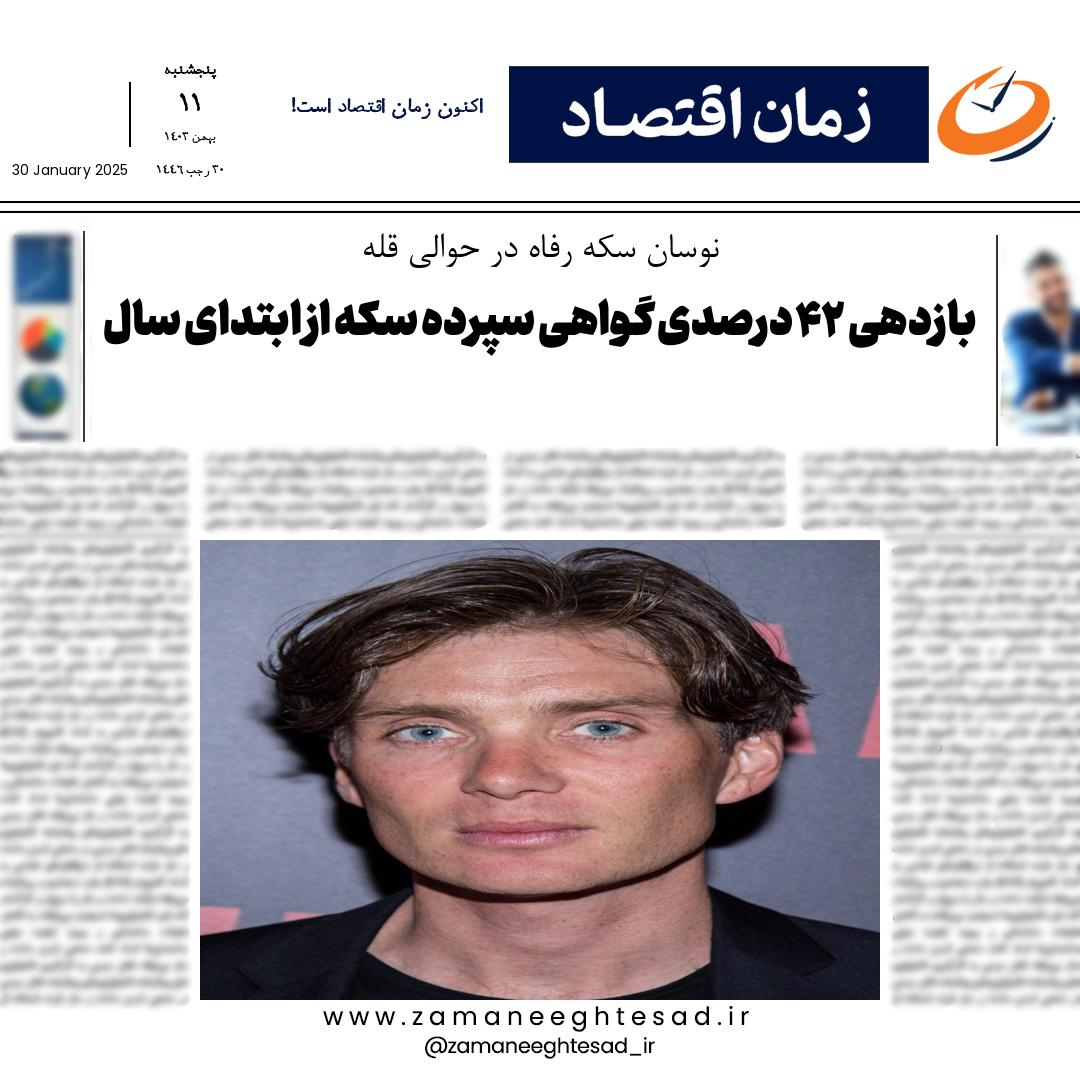
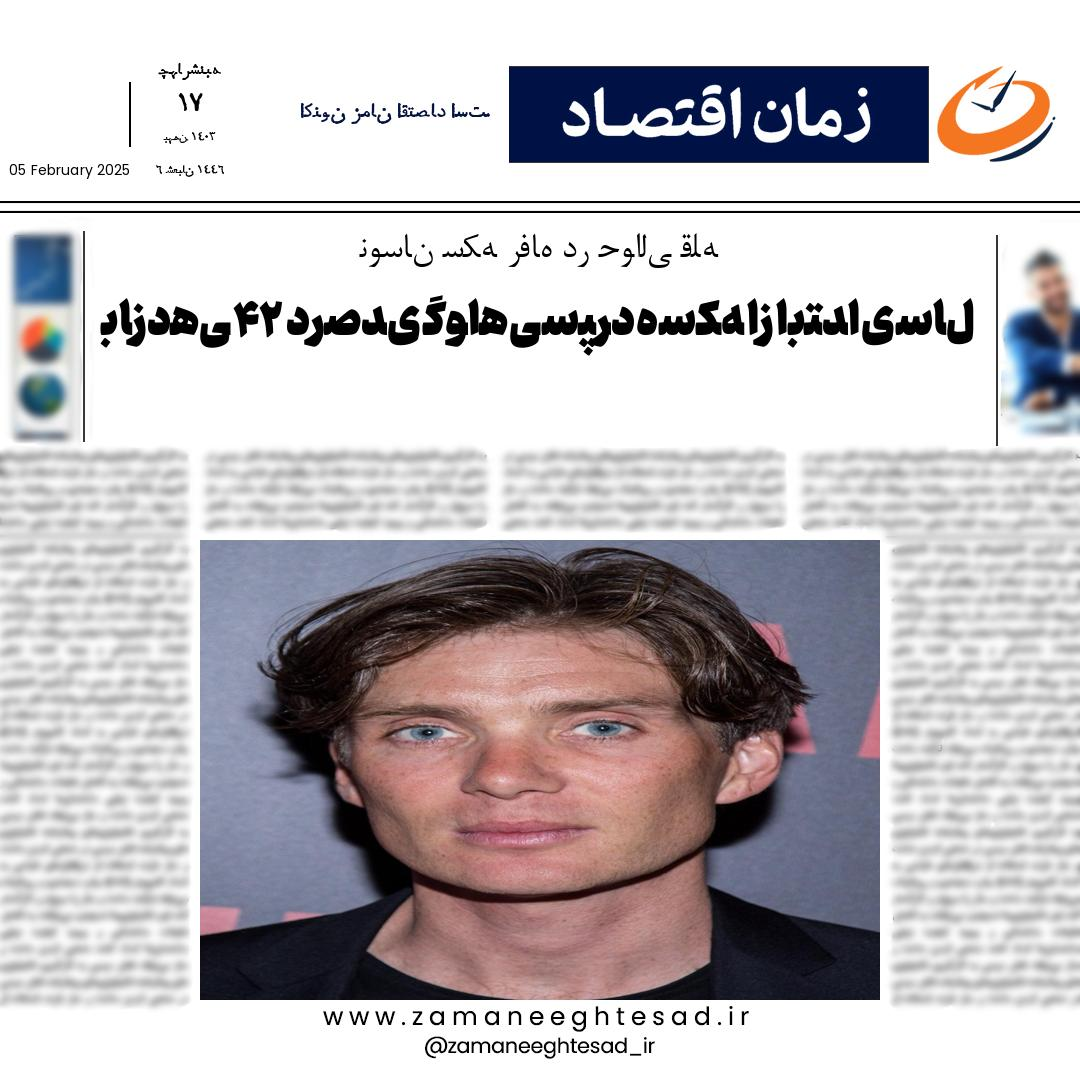
changed steps in the conversation

diff --git a/bot2.py b/bot2.py
@@ -22,6 +22,7 @@ AUTH, IMAGE, TITLE, CONTENT, SLOGAN, SLOGAN_CUSTOM, DATE, FUTURE_DAYS, EVENTS, F
 
 # دادههای کاربر
 data = {}  # Dictionary to store user-provided data during the conversation.
+data['slogan'] = "اکنون زمانِ اقتصاد است." # Default slogan
 
 # Timeout duration (in seconds)
 TIMEOUT = 300  # Define conversation timeout duration.
@@ -76,31 +77,32 @@ async def receive_image(update: Update, context: CallbackContext):
     photo = update.message.photo[-1]  # Get the highest-resolution photo from the message.
     photo_file = await photo.get_file()  # Fetch the photo file.
     await photo_file.download_to_drive('input_image.jpg')  # Save the photo locally.
-    await update.message.reply_text("تصویر دریافت شد. لطفاً عنوان خبر را وارد کنید.")  # Prompt for the news title.
+    await update.message.reply_text("تصویر دریافت شد. لطفاً روتیتر خبر را وارد کنید.")  # Prompt for the news title.
     return TITLE  # Move to the TITLE step.
 
 async def receive_title(update: Update, context: CallbackContext):
     if not update.message.text:  # Check if the message contains text.
         logger.warning("Expected text for title but received something else.")  # Log a warning for invalid input.
-        await update.message.reply_text("لطفاً یک عنوان ارسال کنید.")  # Prompt the user to send text.
+        await update.message.reply_text("لطفاً یک روتیتر ارسال کنید.")  # Prompt the user to send text.
         return TITLE  # Stay in the TITLE step.
 
     data['title'] = update.message.text  # Store the title in the data dictionary.
     logger.info(f"Title received: {data['title']}")  # Log the received title.
-    await update.message.reply_text("عالی! حالا متن اصلی خبر را وارد کنید.")  # Prompt for the main news content.
+    await update.message.reply_text("عالی! حالا تیتر خبر را وارد کنید.")  # Prompt for the main news content.
     return CONTENT  # Move to the CONTENT step.
 
 async def receive_content(update: Update, context: CallbackContext):
     if not update.message.text:  # Check if the message contains text.
         logger.warning("Expected text for content but received something else.")  # Log a warning for invalid input.
-        await update.message.reply_text("لطفاً متن خبر را ارسال کنید.")  # Prompt the user to send text.
+        await update.message.reply_text("لطفاً تیتر خبر را ارسال کنید.")  # Prompt the user to send text.
         return CONTENT  # Stay in the CONTENT step.
 
     data['content'] = update.message.text  # Store the content in the data dictionary.
     logger.info(f"Content received: {data['content']}")  # Log the received content.
-    reply_markup = ReplyKeyboardMarkup([['استفاده از شعار پیشفرض', 'وارد کردن شعار دلخواه']], one_time_keyboard=True)  # Create a keyboard for slogan selection.
-    await update.message.reply_text("آیا مایل به استفاده از شعار پیشفرض هستید یا میخواهید شعار دلخواه وارد کنید؟", reply_markup=reply_markup)  # Prompt for slogan selection.
-    return SLOGAN  # Move to the SLOGAN step.
+    reply_markup = ReplyKeyboardMarkup([['تاریخ امروز', 'انتخاب تاریخ آینده']], one_time_keyboard=True)  # Create a keyboard for date selection.
+    await update.message.reply_text("تیتر خبر ذخیره شد. لطفاً جهت انتخاب تاریخ انتشار خبر یکی از گزینههای زیر را انتخاب کنید:", reply_markup=reply_markup)  # Prompt for date selection.
+    return DATE  # Move to the DATE step.
+
 
 async def receive_slogan(update: Update, context: CallbackContext):
     if not update.message.text:  # Check if the message contains text.
@@ -174,9 +176,8 @@ async def receive_events(update: Update, context: CallbackContext):
     if update.message.text == "خیر":  # Check if the user chose not to add events.
         data['todays_events'] = []  # Store an empty list for events.
         logger.info("No events added.")  # Log the selection.
-        reply_markup = ReplyKeyboardMarkup([['استفاده از اندازه پیشفرض', 'انتخاب اندازه دلخواه']], one_time_keyboard=True)  # Create a keyboard for font size selection.
-        await update.message.reply_text("آیا مایل به تغییر اندازه فونتها هستید؟", reply_markup=reply_markup)  # Prompt for font size selection.
-        return FONT_SIZES  # Move to the FONT_SIZES step.
+        await generate_and_send_image(update, context)  # Generate and send the image.
+        return ConversationHandler.END  # End the conversation.
     elif update.message.text == "بله":  # Check if the user chose to add events.
         logger.info("User opted to add events.")  # Log the selection.
         await update.message.reply_text("لطفاً رویدادهای روز را هر کدام در یک خط وارد کنید (حداکثر ۳ رویداد):")  # Prompt for event details.
@@ -185,9 +186,8 @@ async def receive_events(update: Update, context: CallbackContext):
         events = update.message.text.splitlines()[:3]  # Split the input into lines and limit to 3 events.
         data['todays_events'] = events  # Store the events.
         logger.info(f"Events received: {events}")  # Log the received events.
-        reply_markup = ReplyKeyboardMarkup([['استفاده از اندازه پیشفرض', 'انتخاب اندازه دلخواه']], one_time_keyboard=True)  # Create a keyboard for font size selection.
-        await update.message.reply_text("رویدادها ذخیره شدند. آیا مایل به تغییر اندازه فونتها هستید؟", reply_markup=reply_markup)  # Prompt for font size selection.
-        return FONT_SIZES  # Move to the FONT_SIZES step.
+        await generate_and_send_image(update, context)  # Generate and send the image.
+        return ConversationHandler.END  # End the conversation.
 
 async def receive_font_sizes(update: Update, context: CallbackContext):
     if not update.message.text:  # Check if the message contains text.
@@ -205,7 +205,7 @@ async def receive_font_sizes(update: Update, context: CallbackContext):
 
     elif update.message.text == 'انتخاب اندازه دلخواه':
         logger.info("User opted to change font sizes.")  # Log the selection.
-        await update.message.reply_text("لطفاً اندازه فونت تیتر، متن اصلی و شعار را هر کدام در یک خط وارد کنید. (مقدار پیشفرض اندازه فونت تیتر برابر با ۴۰، متن اصلی ۵۰و شعار ۲۵ است.)")  # Prompt for custom font sizes.
+        await update.message.reply_text("لطفاً اندازه فونت تیتر، تیتر و شعار را هر کدام در یک خط وارد کنید. (مقدار پیشفرض اندازه فونت تیتر برابر با ۴۰، تیتر ۵۰و شعار ۲۵ است.)")  # Prompt for custom font sizes.
         return FONT_SIZES  # Stay in the FONT_SIZES step.
 
     else:

diff --git a/generate_image.py b/generate_image.py
@@ -76,8 +76,8 @@ def generate_news_image(
     base_image.paste(user_image, user_image_position)
 
     # Load fonts
-    title_font = ImageFont.truetype("Ray-ExtraBlack.ttf", content_font_size)
-    content_font = ImageFont.truetype("BNazanin.ttf", title_font_size)
+    title_font =     ImageFont.truetype("BNazanin.ttf", title_font_size)
+    content_font = ImageFont.truetype("Ray-ExtraBlack.ttf", content_font_size)
     slogan_font = ImageFont.truetype("A Nafis.ttf", slogan_font_size)
     event_font = ImageFont.truetype("A Nafis.ttf", event_font_size)
     weekday_font = ImageFont.truetype("A Nafis.ttf", weekday_font_size)
@@ -85,11 +85,16 @@ def generate_news_image(
     miladi_date_font = ImageFont.truetype("Poppins-Regular.ttf", 14)
 
     # Function to reshape and reorder Farsi text
+    # def prepare_farsi_text(text):
+    #     reshaped_text = arabic_reshaper.reshape(text)
+    #     bidi_text = get_display(reshaped_text)
+    #     return reshaped_text
+
     def prepare_farsi_text(text):
         reshaped_text = arabic_reshaper.reshape(text)
         bidi_text = get_display(reshaped_text)
         return bidi_text
-
+    
     # Prepare dates
     future_date = datetime.now() + timedelta(days=days_into_future)
     miladi_date = future_date.strftime("%d %B %Y")
@@ -151,7 +156,7 @@ def generate_news_image(
         
     
     
-
+   
     # Draw title
     title = prepare_farsi_text(title)
     title_bbox = draw.textbbox((0, 0), title, font=title_font)
@@ -161,7 +166,7 @@ def generate_news_image(
 
     # Draw main content
     box_width = 980 - 100
-    y_offset = 310
+    y_offset = 285
     current_line = ""
     lines = []
 
